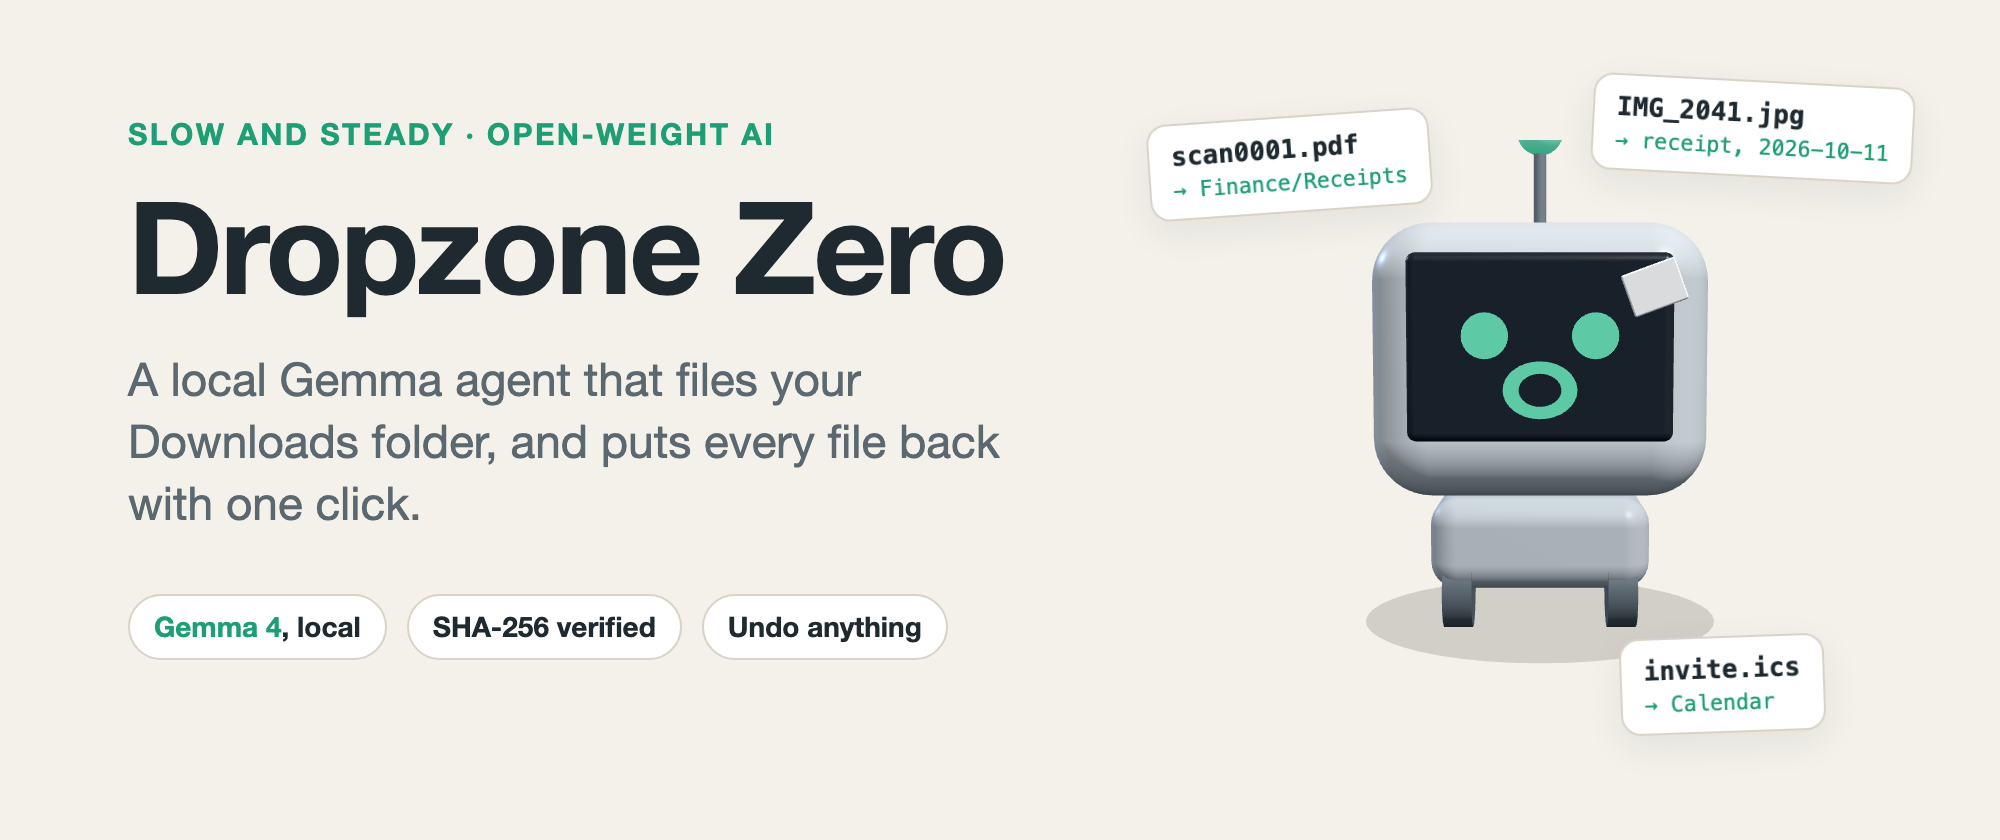
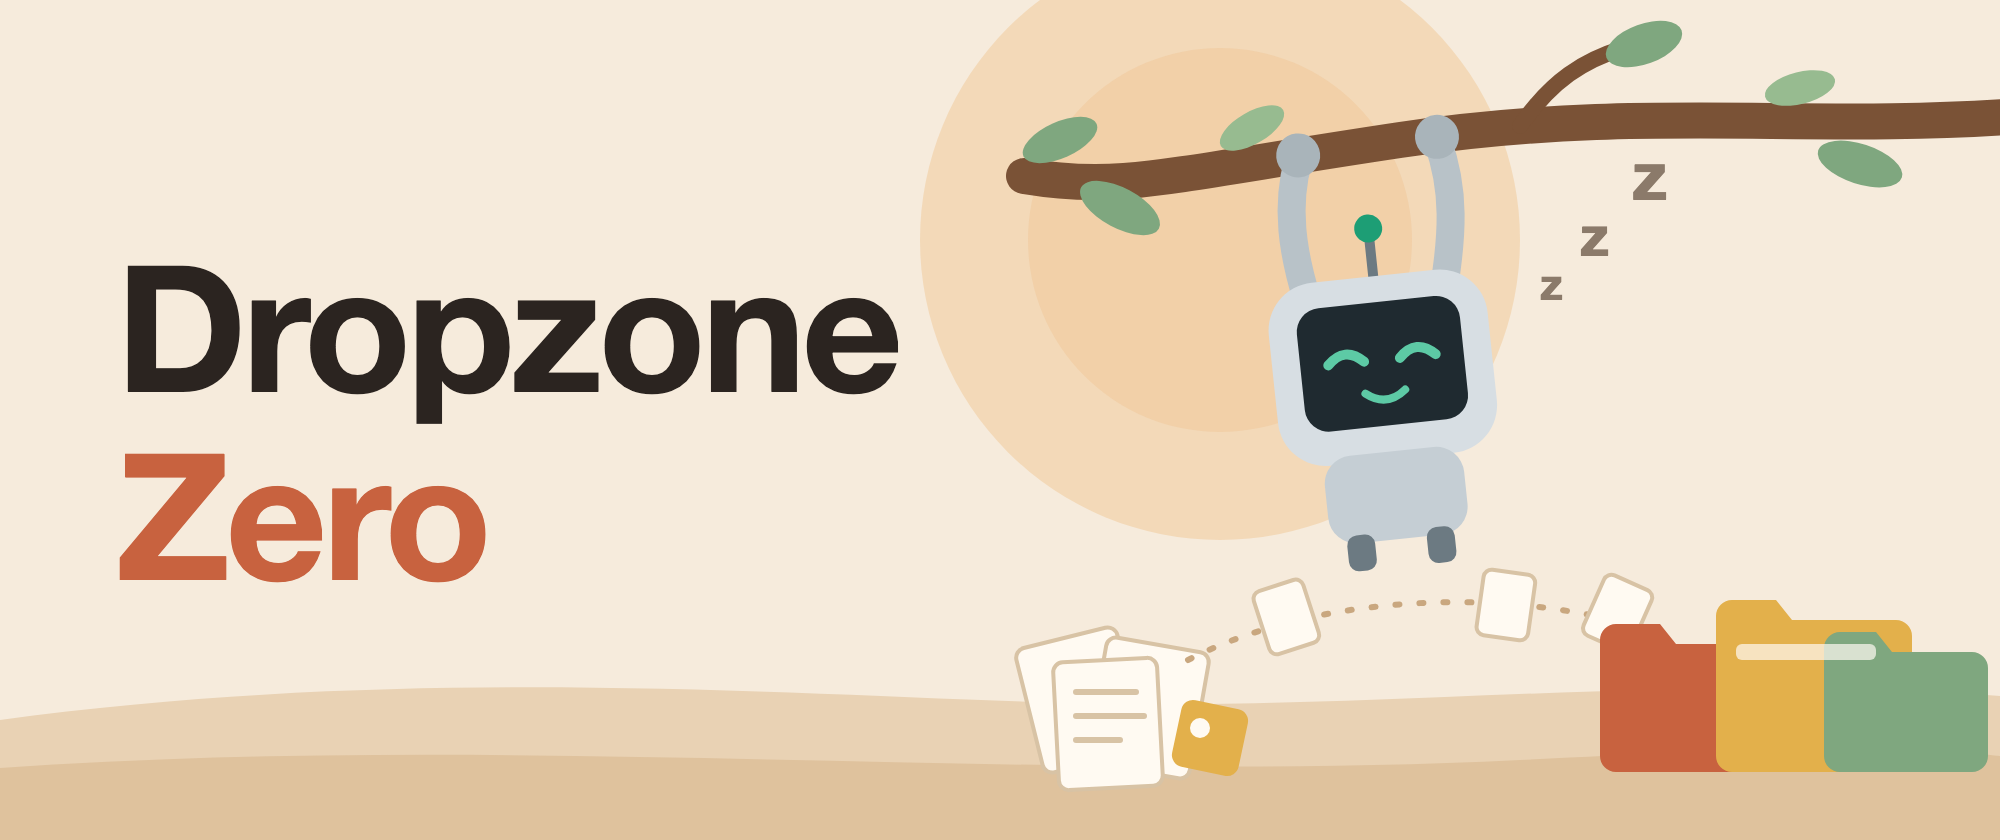
docs: redraw the cover as a flat illustration
Zee hangs from a branch like a sloth, eyes closed, while a messy pile of
downloads files itself into folders below: the "slow and steady" idea in
one picture, with the title only. Drawn as SVG in docs/media/cover.html
and rendered to PNG by pnpm media:cover.

Entire-Checkpoint: 01M5C0YVERDD3WVNA8HZN49SEH

diff --git a/docs/media/cover.html b/docs/media/cover.html
@@ -1,73 +1,103 @@
 <!doctype html>
 <!--
-  The DEV cover image (1000x420). It renders the real Zee robot from app/ui, so
-  the cover shows the app as it is. Rebuild with: pnpm media:cover
+  The DEV cover image (1000x420): a flat illustration of the idea. Zee hangs from
+  a branch like a sloth, doing nothing, while a messy pile of downloads files
+  itself into folders below. Rebuild with: pnpm media:cover
 -->
 <html lang="en">
   <head>
     <meta charset="utf-8" />
     <title>Dropzone Zero cover</title>
     <style>
-      :root {
-        --bg: #f4f1ea;
-        --ink: #1f2a30;
-        --muted: #5b6870;
-        --accent: #1d9e75;
-        --card: #ffffff;
-        --line: #d9d3c7;
-      }
-      * { box-sizing: border-box; margin: 0; }
-      html, body { width: 1000px; height: 420px; overflow: hidden; }
-      body {
-        background: var(--bg);
-        color: var(--ink);
-        font-family: -apple-system, "SF Pro Display", "Helvetica Neue", Arial, sans-serif;
-        display: grid;
-        grid-template-columns: 560px 440px;
-      }
-      .copy { padding: 58px 0 0 64px; }
-      .eyebrow {
-        font-size: 15px; font-weight: 600; letter-spacing: 0.08em; text-transform: uppercase;
-        color: var(--accent);
-      }
-      h1 { font-size: 64px; line-height: 1.02; letter-spacing: -0.02em; margin-top: 14px; }
-      p.tag { font-size: 23px; line-height: 1.35; color: var(--muted); margin-top: 18px; max-width: 470px; }
-      .chips { display: flex; gap: 10px; margin-top: 30px; }
-      .chip {
-        font-size: 14px; font-weight: 600; padding: 7px 12px; border-radius: 999px; white-space: nowrap;
-        background: var(--card); border: 1px solid var(--line);
-      }
-      .chip b { color: var(--accent); }
-      .scene { position: relative; }
-      #robot { position: absolute; left: 60px; top: 70px; width: 300px; height: 300px; }
-      .file {
-        position: absolute; background: var(--card); border: 1px solid var(--line); border-radius: 10px;
-        font: 600 13px ui-monospace, "SF Mono", Menlo, monospace; padding: 8px 11px; color: var(--ink);
-        box-shadow: 0 6px 18px rgba(31, 42, 48, 0.08);
-      }
-      .file small { display: block; font-weight: 500; color: var(--accent); margin-top: 3px; }
-      .f1 { left: 236px; top: 40px; transform: rotate(3deg); }
-      .f2 { left: 14px; top: 58px; transform: rotate(-4deg); }
-      .f3 { left: 250px; top: 318px; transform: rotate(-2deg); }
+      * { margin: 0; }
+      html, body { width: 1000px; height: 420px; overflow: hidden; background: #f6ebdc; }
+      svg { display: block; }
+      .title { font-family: -apple-system, "SF Pro Display", "Helvetica Neue", Arial, sans-serif; font-weight: 800; }
     </style>
   </head>
-  <body class="eating">
-    <section class="copy">
-      <div class="eyebrow">Slow and steady · open-weight AI</div>
-      <h1>Dropzone Zero</h1>
-      <p class="tag">A local Gemma agent that files your Downloads folder, and puts every file back with one click.</p>
-      <div class="chips">
-        <span class="chip"><b>Gemma 4</b>, local</span>
-        <span class="chip">SHA-256 verified</span>
-        <span class="chip">Undo anything</span>
-      </div>
-    </section>
-    <section class="scene">
-      <canvas id="robot"></canvas>
-      <div class="file f2">scan0001.pdf<small>→ Finance/Receipts</small></div>
-      <div class="file f1">IMG_2041.jpg<small>→ receipt, 2026-10-11</small></div>
-      <div class="file f3">invite.ics<small>→ Calendar</small></div>
-    </section>
-    <script type="module" src="../../app/ui/robot.js"></script>
+  <body>
+    <svg width="1000" height="420" viewBox="0 0 1000 420" xmlns="http://www.w3.org/2000/svg">
+      <!-- Sky, sun, and ground -->
+      <rect width="1000" height="420" fill="#f6ebdc" />
+      <circle cx="610" cy="120" r="150" fill="#f3d9b8" />
+      <circle cx="610" cy="120" r="96" fill="#f0c99a" opacity="0.55" />
+      <path d="M0 360 C 220 330, 420 350, 560 352 S 860 336, 1000 348 L 1000 420 L 0 420 Z" fill="#e9d2b4" />
+      <path d="M0 384 C 260 366, 520 392, 760 380 S 940 372, 1000 378 L 1000 420 L 0 420 Z" fill="#dfc29d" />
+
+      <!-- Title only -->
+      <text class="title" x="58" y="196" font-size="88" fill="#2b2420" letter-spacing="-2">Dropzone</text>
+      <text class="title" x="58" y="290" font-size="88" fill="#c8623f" letter-spacing="-2">Zero</text>
+
+      <!-- Branch with leaves, coming in from the top right -->
+      <path d="M1010 58 C 900 66, 820 52, 700 70 S 560 96, 512 88" stroke="#7a5236" stroke-width="18" fill="none" stroke-linecap="round" />
+      <path d="M760 63 C 776 40, 792 30, 812 24" stroke="#7a5236" stroke-width="8" fill="none" stroke-linecap="round" />
+      <g fill="#7fa77f">
+        <ellipse cx="822" cy="22" rx="20" ry="10" transform="rotate(-20 822 22)" />
+        <ellipse cx="560" cy="104" rx="22" ry="10" transform="rotate(28 560 104)" />
+        <ellipse cx="530" cy="70" rx="20" ry="9" transform="rotate(-24 530 70)" />
+        <ellipse cx="930" cy="82" rx="22" ry="10" transform="rotate(18 930 82)" />
+      </g>
+      <g fill="#97bb90">
+        <ellipse cx="900" cy="44" rx="18" ry="8" transform="rotate(-14 900 44)" />
+        <ellipse cx="626" cy="64" rx="18" ry="8" transform="rotate(-30 626 64)" />
+      </g>
+
+      <!-- Zee, hanging like a sloth: arms up to the branch, eyes closed, perfectly content -->
+      <g transform="rotate(-6 690 180)">
+        <path d="M660 160 C 650 120, 652 96, 660 76" stroke="#b8c2c8" stroke-width="14" fill="none" stroke-linecap="round" />
+        <path d="M722 160 C 734 120, 736 98, 730 74" stroke="#b8c2c8" stroke-width="14" fill="none" stroke-linecap="round" />
+        <circle cx="660" cy="74" r="11" fill="#a9b4ba" />
+        <circle cx="730" cy="72" r="11" fill="#a9b4ba" />
+        <!-- antenna -->
+        <line x1="691" y1="140" x2="691" y2="118" stroke="#6c7a82" stroke-width="5" stroke-linecap="round" />
+        <circle cx="691" cy="114" r="7" fill="#1d9e75" />
+        <!-- head with screen face -->
+        <rect x="636" y="138" width="110" height="92" rx="24" fill="#d7dee3" />
+        <rect x="650" y="151" width="82" height="62" rx="12" fill="#1f2a30" />
+        <path d="M664 180 q 9 -9 18 0" stroke="#5dcaa5" stroke-width="5" fill="none" stroke-linecap="round" />
+        <path d="M700 180 q 9 -9 18 0" stroke="#5dcaa5" stroke-width="5" fill="none" stroke-linecap="round" />
+        <path d="M681 196 q 10 8 20 0" stroke="#5dcaa5" stroke-width="4" fill="none" stroke-linecap="round" />
+        <!-- body and dangling wheels -->
+        <rect x="656" y="226" width="70" height="44" rx="14" fill="#c5ced4" />
+        <rect x="664" y="266" width="14" height="18" rx="5" fill="#6c7a82" />
+        <rect x="704" y="266" width="14" height="18" rx="5" fill="#6c7a82" />
+      </g>
+      <!-- z z z -->
+      <g class="title" fill="#8b7a6a">
+        <text x="770" y="150" font-size="22">z</text>
+        <text x="790" y="128" font-size="28">z</text>
+        <text x="816" y="100" font-size="34">z</text>
+      </g>
+
+      <!-- The messy pile of downloads -->
+      <g>
+        <rect x="514" y="318" width="52" height="64" rx="5" fill="#fffaf2" stroke="#d8c3a5" stroke-width="2" transform="rotate(-14 540 350)" />
+        <rect x="548" y="322" width="52" height="64" rx="5" fill="#fffaf2" stroke="#d8c3a5" stroke-width="2" transform="rotate(10 574 354)" />
+        <rect x="528" y="330" width="52" height="64" rx="5" fill="#fffaf2" stroke="#d8c3a5" stroke-width="2" transform="rotate(-3 554 362)" />
+        <g stroke="#d8c3a5" stroke-width="3" stroke-linecap="round">
+          <line x1="538" y1="346" x2="568" y2="346" />
+          <line x1="538" y1="358" x2="572" y2="358" />
+          <line x1="538" y1="370" x2="560" y2="370" />
+        </g>
+        <rect x="588" y="352" width="34" height="34" rx="6" fill="#e3b04b" transform="rotate(12 605 369)" />
+        <circle cx="600" cy="364" r="5" fill="#fffaf2" />
+      </g>
+
+      <!-- Papers lifting off the pile and arcing into folders -->
+      <path d="M594 330 C 660 296, 760 292, 834 318" stroke="#c9a77f" stroke-width="3" stroke-dasharray="2 10" stroke-linecap="round" fill="none" />
+      <g>
+        <rect x="630" y="292" width="26" height="33" rx="4" fill="#fffaf2" stroke="#d8c3a5" stroke-width="2" transform="rotate(-18 643 308)" />
+        <rect x="740" y="286" width="26" height="33" rx="4" fill="#fffaf2" stroke="#d8c3a5" stroke-width="2" transform="rotate(8 753 302)" />
+        <rect x="796" y="290" width="26" height="33" rx="4" fill="#fffaf2" stroke="#d8c3a5" stroke-width="2" transform="rotate(24 809 306)" />
+      </g>
+
+      <!-- Neat folders -->
+      <g>
+        <path d="M800 312 h 30 l 8 10 h 52 a 8 8 0 0 1 8 8 v 48 a 8 8 0 0 1 -8 8 h -82 a 8 8 0 0 1 -8 -8 v -58 a 8 8 0 0 1 8 -8 z" fill="#c8623f" />
+        <path d="M858 300 h 30 l 8 10 h 52 a 8 8 0 0 1 8 8 v 60 a 8 8 0 0 1 -8 8 h -82 a 8 8 0 0 1 -8 -8 v -70 a 8 8 0 0 1 8 -8 z" fill="#e3b04b" />
+        <path d="M912 316 h 26 l 8 10 h 40 a 8 8 0 0 1 8 8 v 44 a 8 8 0 0 1 -8 8 h -66 a 8 8 0 0 1 -8 -8 v -54 a 8 8 0 0 1 8 -8 z" fill="#7fa77f" />
+        <rect x="868" y="322" width="70" height="8" rx="3" fill="#fffaf2" opacity="0.7" />
+      </g>
+    </svg>
   </body>
 </html>
